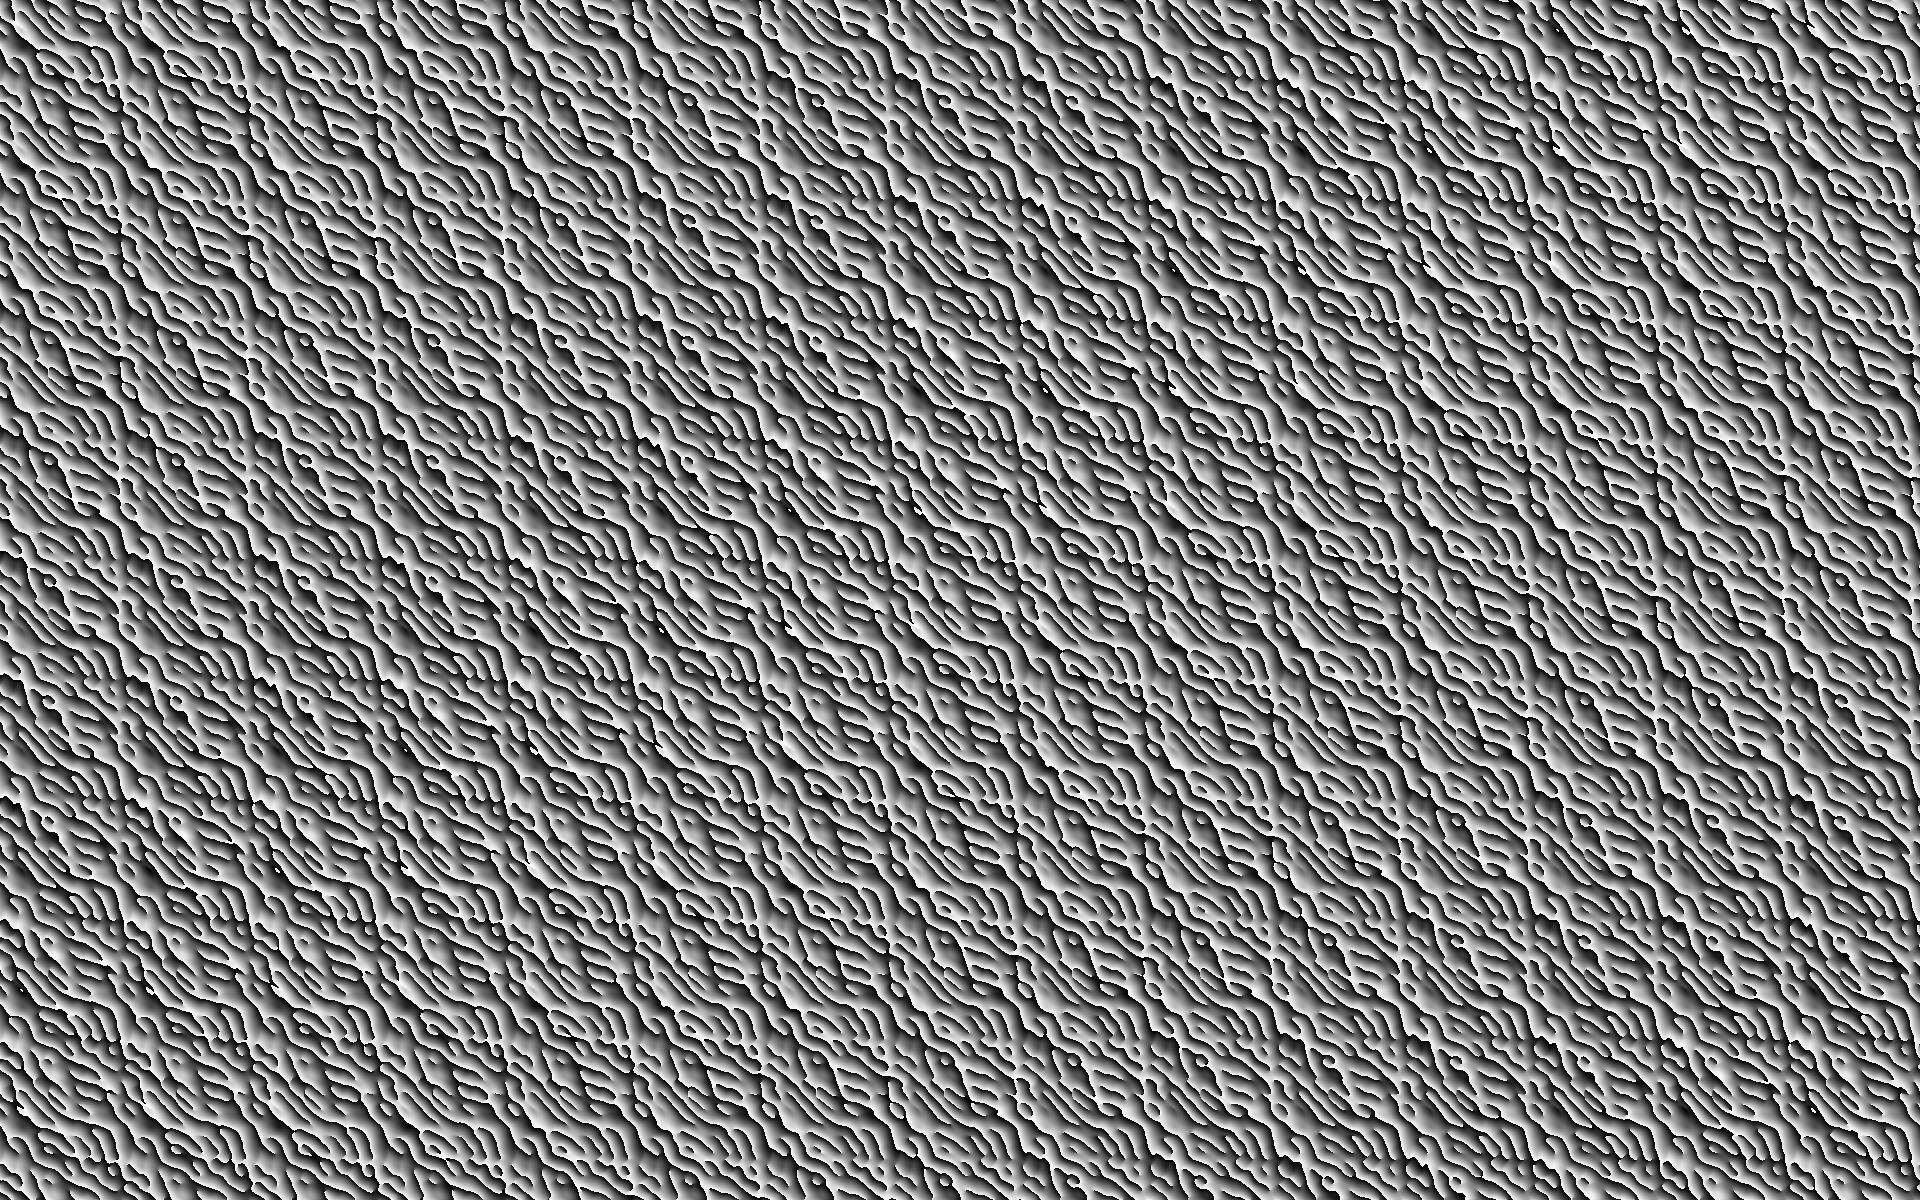
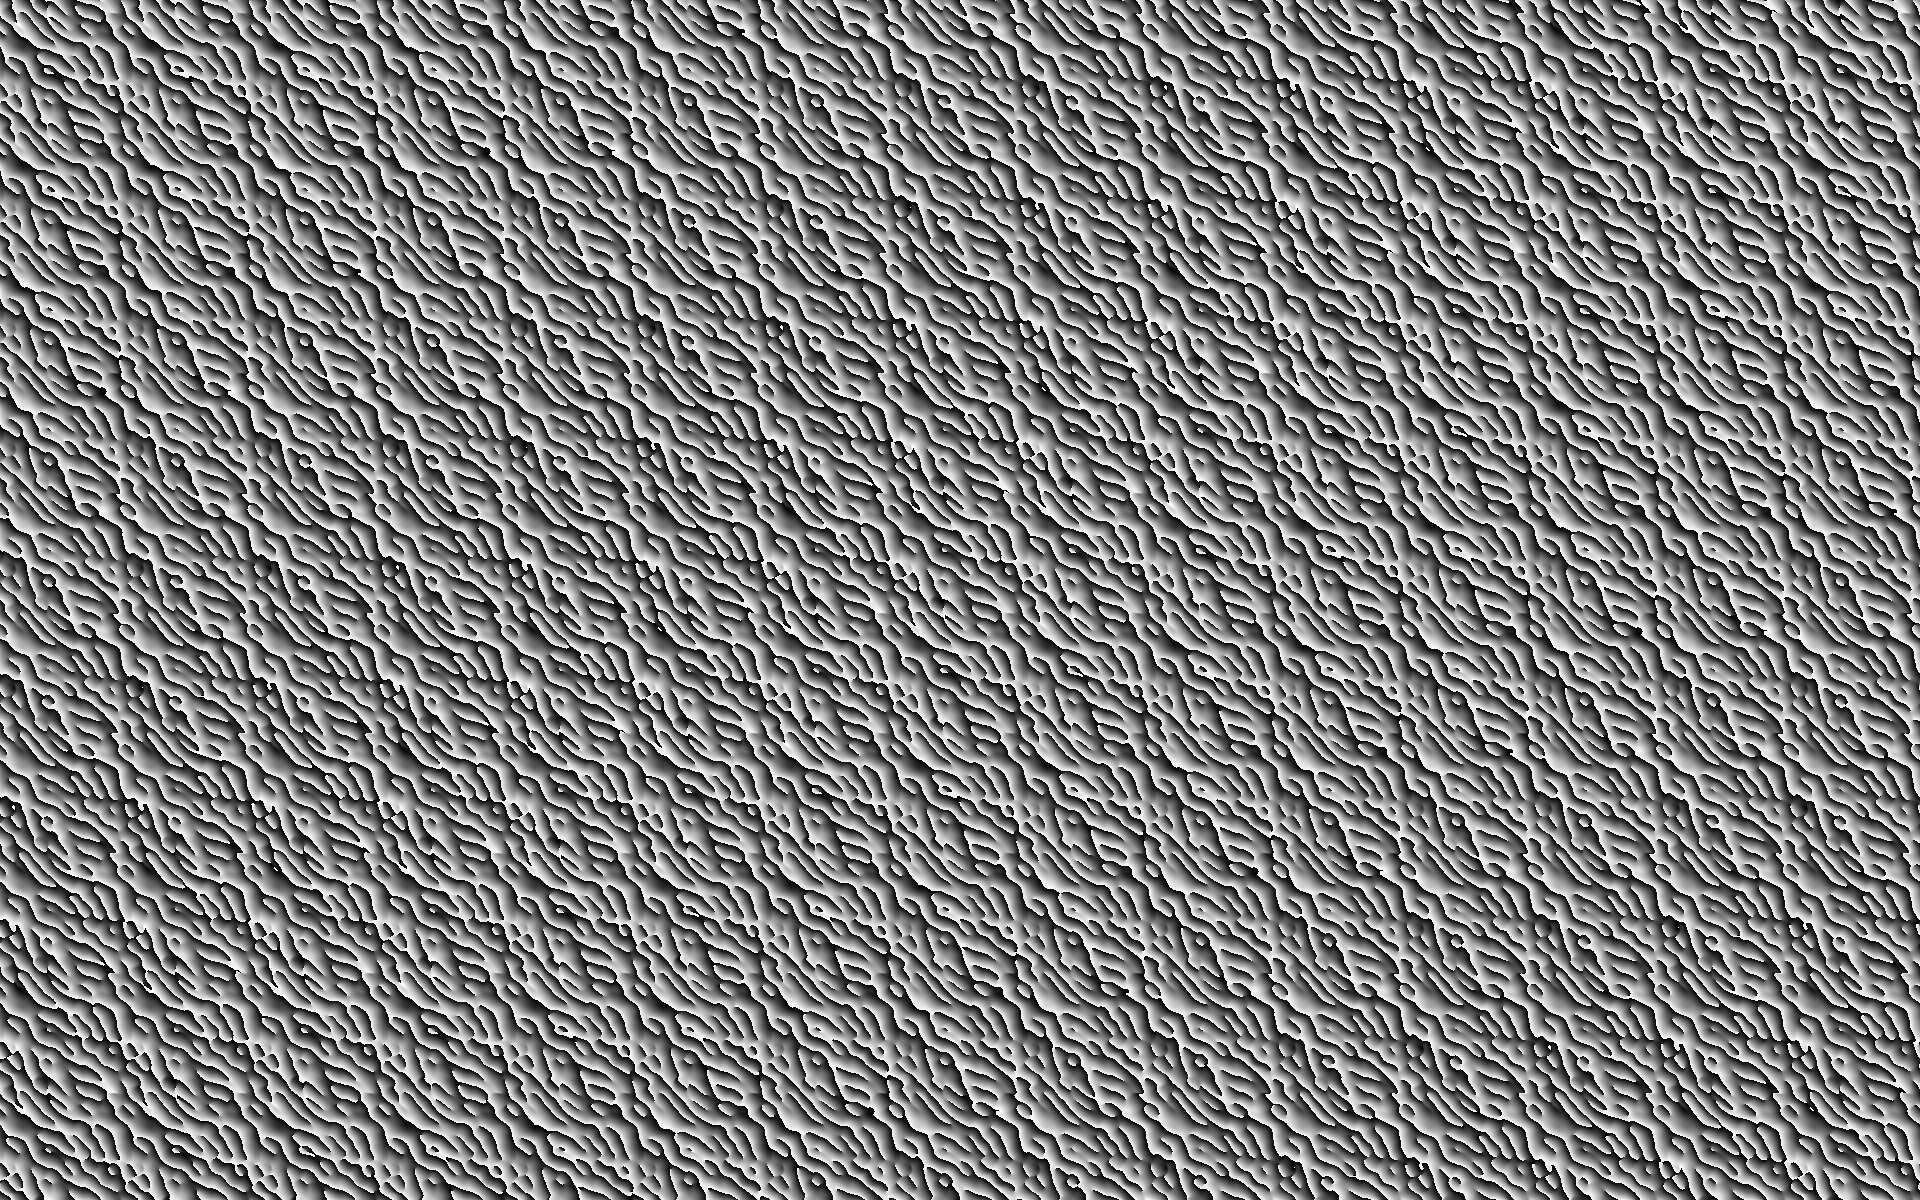
evaluation of some nonperfection induced effect

diff --git a/WGS/GS-WGS-codes/Random/WGS.m b/WGS/GS-WGS-codes/Random/WGS.m
@@ -5,7 +5,8 @@ row = 10;
 column = 10;
 row_spacing = 15;
 column_spacing = 10;
-iteration_num = 30;
+iteration_num = 100;
+Phase_fixed = 20;
 Resolution = [1920 1200];
 tweezer_number = row * column;
 
@@ -45,6 +46,11 @@ tweezer_number = row * column;
         B = abs(input_intensity) .* exp(1i*angle(A));
         B = B / max(max(abs(B)));
         C = fftshift(fft2(fftshift(B)));
+
+        if k < Phase_fixed
+            phase_fixed = exp(1i*angle(C));
+        end
+
         intensity_retrival = abs(C);
         aver_intensity_retrival = 0;
     
@@ -61,7 +67,7 @@ tweezer_number = row * column;
             end
         end
     
-        D = abs(Target) .* exp(1i*angle(C));
+        D = abs(Target) .* phase_fixed;
         for i = 1:column % weighted part
             for j = 1:row
                 D(600+column_spacing*i,960-row_spacing*j) = D(600+column_spacing*i,960-row_spacing*j) * weight(i,j);
@@ -72,18 +78,20 @@ tweezer_number = row * column;
 %         error = [error; sum(sum(abs(intensity_retrival/sum(sum(intensity_retrival)) - abs(Blank_pic))))];   
     end
     non_uniformity = [];
-% for sigma = 0.1:0.1:5
-% %% Intensity noise?
-% 	x = linspace(-10,10,Resolution(1));
-% 	y = linspace(-10,10,Resolution(2));
-% 	[X,Y] = meshgrid(x,y);
-% 	x0 = 5;     		% center
-% 	y0 = 0;     		% center
+    sigma_list = [];
+
+for sigma = 0.1:0.1:10
+%% Intensity noise?
+	x = linspace(-10,10,Resolution(1));
+	y = linspace(-10,10,Resolution(2));
+	[X,Y] = meshgrid(x,y);
+	x0 = 5;     		% center
+	y0 = 0;     		% center
 %  	sigma = 5; 			% effective beam waist
-%     sigma_x = sigma/1.92;
-%     sigma_y = sigma/1.2;
-% 	res = ((X-x0).^2./(2*sigma_x^2) + (Y-y0).^2./(2*sigma_y^2));
-% 	input_intensity = exp(-res);
+    sigma_x = sigma/1.92;
+    sigma_y = sigma/1.2;
+	res = ((X-x0).^2./(2*sigma_x^2) + (Y-y0).^2./(2*sigma_y^2));
+	input_intensity = exp(-res);
 
 %% final loop, add noise to see retrive
     % add phase noise in B
@@ -107,9 +115,10 @@ tweezer_number = row * column;
         end
     end
 
-    non_uniformity = [non_uniformity; std(reshape(intensity_distribution,100,1))/mean(mean(intensity_distribution))]
-
-% end
-% plot(non_uniformity);
+    non_uniformity = [non_uniformity; std(reshape(intensity_distribution,100,1))/mean(mean(intensity_distribution))];
+    sigma_list = [sigma_list; sigma];
+end
+plot(sigma_list,non_uniformity);
+set(gca, 'YScale', 'log');
 toc;
     
